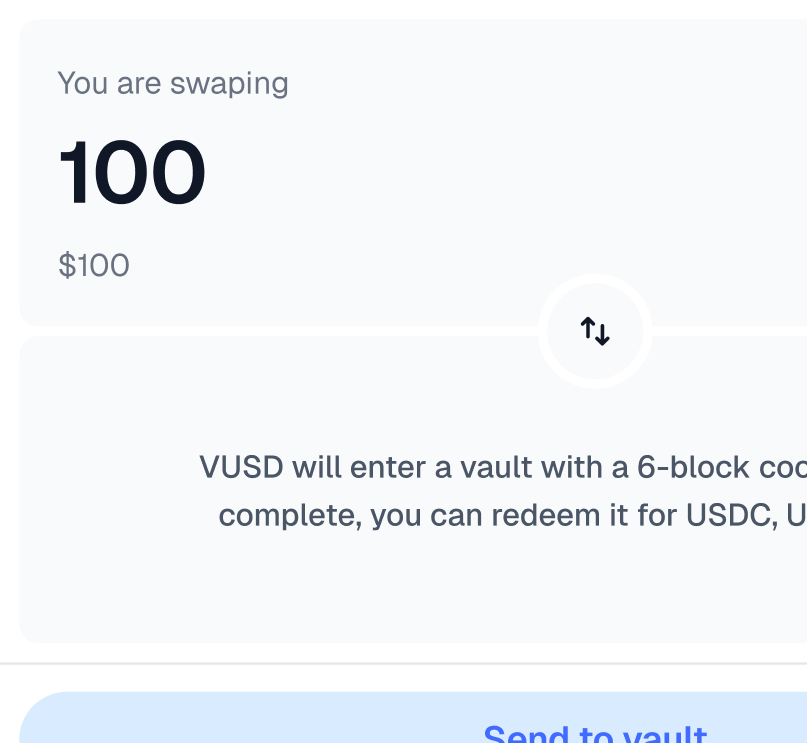
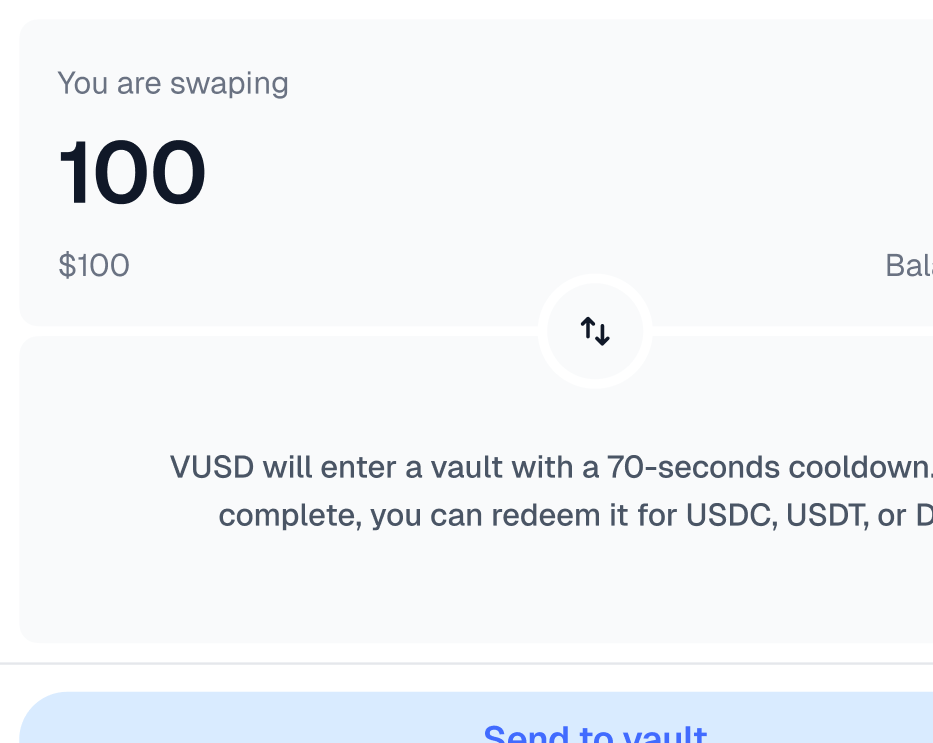
Show delay in seconds instead of blocks for redeem

diff --git a/web/src/components/swapForm/twoStepRedeem.tsx b/web/src/components/swapForm/twoStepRedeem.tsx
@@ -18,7 +18,6 @@ import { useWithdrawalDelay } from "hooks/useWithdrawalDelay";
 import { type FormEvent, useCallback, useState } from "react";
 import { useTranslation } from "react-i18next";
 import type { Token } from "types";
-import { secondsToBlocks } from "utils/blocks";
 import { getTokenListParams } from "utils/tokenList";
 import { useAccount } from "wagmi";
 
@@ -71,7 +70,9 @@ export function TwoStepRedeem({
   const [showToast, setShowToast] = useState(false);
   const [startedWithApproval, setStartedWithApproval] = useState(false);
 
-  const { data: blocks } = useWithdrawalDelay({ select: secondsToBlocks });
+  const { data: seconds } = useWithdrawalDelay({
+    select: (data) => Number(data),
+  });
   const { data: fromTokenBalance } = useTokenBalance({
     address: fromToken.address,
     chainId: ethereumChain.id,
@@ -163,7 +164,7 @@ export function TwoStepRedeem({
 
   const vaultInfoText = t("pages.swap.form.vault-info", {
     ...tokenListParams,
-    blocks,
+    seconds,
     vusd: fromToken.symbol,
   });
 
@@ -261,7 +262,8 @@ export function TwoStepRedeem({
         <Toast
           closable
           description={t("pages.swap.toast.your-cooldown-period-has-started", {
-            blocks,
+            count: seconds,
+            seconds,
           })}
           onClose={() => setShowToast(false)}
           title={t("pages.swap.toast.deposited-to-vault", {

diff --git a/web/src/components/swapForm/redeemTutorialModal.tsx b/web/src/components/swapForm/redeemTutorialModal.tsx
@@ -5,7 +5,6 @@ import { useWhitelistedTokens } from "hooks/useWhitelistedTokens";
 import { useWithdrawalDelay } from "hooks/useWithdrawalDelay";
 import type { ReactNode } from "react";
 import { Trans, useTranslation } from "react-i18next";
-import { secondsToBlocks } from "utils/blocks";
 import { getTokenListParams } from "utils/tokenList";
 
 type Props = {
@@ -39,7 +38,9 @@ const StepSection = ({ badge, children, image }: StepSectionProps) => (
 export function RedeemTutorialModal({ onClose }: Props) {
   const { t } = useTranslation();
   const { data: vusd } = useVusd();
-  const { data: blocks } = useWithdrawalDelay({ select: secondsToBlocks });
+  const { data: seconds } = useWithdrawalDelay({
+    select: (data) => Number(data),
+  });
   const { data: whitelistedTokens } = useWhitelistedTokens();
 
   return (
@@ -73,7 +74,8 @@ export function RedeemTutorialModal({ onClose }: Props) {
           </p>
           <p className="text-base font-semibold text-gray-500">
             {t("pages.swap.tutorial.step-1-paragraph-2", {
-              blocks,
+              count: seconds,
+              seconds,
               symbol: vusd.symbol,
             })}
           </p>

diff --git a/web/src/components/swapForm/redeemVaultEmptyState.tsx b/web/src/components/swapForm/redeemVaultEmptyState.tsx
@@ -2,7 +2,6 @@ import { useVusd } from "hooks/useVusd";
 import { useWithdrawalDelay } from "hooks/useWithdrawalDelay";
 import { useTranslation } from "react-i18next";
 import type { Token } from "types";
-import { secondsToBlocks } from "utils/blocks";
 import { getTokenListParams } from "utils/tokenList";
 
 const StartWithVusdIcon = () => (
@@ -79,7 +78,9 @@ export function RedeemVaultEmptyState({ whitelistedTokens }: Props) {
   const { t } = useTranslation();
   const { data: vusd } = useVusd();
   const { symbol } = vusd;
-  const { data: blocks } = useWithdrawalDelay({ select: secondsToBlocks });
+  const { data: seconds } = useWithdrawalDelay({
+    select: (data) => Number(data),
+  });
 
   const steps = [
     {
@@ -91,7 +92,8 @@ export function RedeemVaultEmptyState({ whitelistedTokens }: Props) {
     },
     {
       description: t("pages.swap.redeem-vault.empty-step-2-description", {
-        blocks,
+        count: seconds,
+        seconds,
         symbol,
       }),
       icon: <CooldownIcon />,
